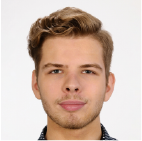
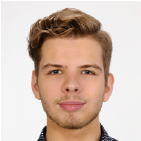
main header complete

diff --git a/content/style.css b/content/style.css
@@ -15,14 +15,27 @@ body {
 	position: relative;
 }
 #portrait {
-	max-width: 142px;
-	max-height: 142px;
-	border-radius: 50%;
-	height: 12vh;
-	width: auto;
+	padding-top: 1vh;
+	width: 12vh;
 	display: block;
 	margin: auto;
-	padding: 1vh;
+}
+#portrait img{
+	border-radius: 50%;
+	border: 0.5vh solid white;
+	background: white;
+	height: 12vh;
+	width: 12vh;
+	display: block;
+	-webkit-box-shadow: 0px 0px 10px 1px rgba(0, 0, 0, 0.2);
+	box-shadow: 0px 0px 10px 1px rgba(0, 0, 0, 0.2);
+		
+}
+#top .name {
+	display: block;
+	height: 7vh;
+	margin: auto;
+	
 }
 #content {
 	background : #4E7AC6;

diff --git a/index.html b/index.html
@@ -8,7 +8,8 @@
 <body>
 
 <header id="top">
-	<img id="portrait" src="content/images/top_portrait.png" alt=""/>
+	<div id="portrait"><img src="content/images/top_portrait.png" /></div>
+	<img class="name" src="content/images/top_name.svg"/>
 </header>
 
 <section id="content">
